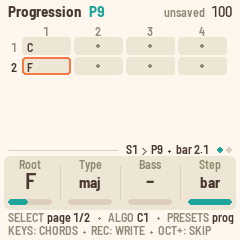
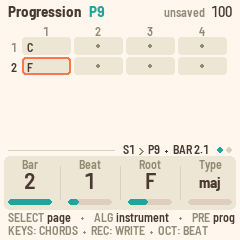
Manual: the Progression page's BAR, BEAT, ROOT, TYPE; STEP and CLEAR CHORD; hidden chords
How do I...: go to bar 1 beat 3 (BAR 1, BEAT 3), fix a chord (BAR / BEAT, ROOT / TYPE; BASS on page 2), delete a
chord (SEL, CLEAR CHORD). The Progression section: the knobs, OCT a beat, the tag, writing at the cursor by STEP,
SEL's list, chords hidden by a shorter length or fewer beats (back while on the pages, gone after, never saved).
The buttons, the panel table, the page-by-page table and the README's line; the figure re-shot from the cheatsheet
scenario.

Claude-Session: https://claude.ai/code/session_01KrDAEHZwidK2Hjis9LandD

diff --git a/MANUAL.md b/MANUAL.md
@@ -72,7 +72,9 @@ next thing.
 | play a progression | hold **HOME**, press white key *n* (P*n* goes round, from the next bar while playing) |
 | change the groove | hold **HOME**, press black key 2 (Groove A) or 3 (Groove B); 4 a fill, 1 the Intro, 5 the Ending |
 | write a progression | **HOME**, turn **KNOB 4** anticlockwise to "–" (free), **REC**, **PLAY**, a chord a bar, **REC** |
-| fix a chord | **ARP**, **OCT+** / **OCT−** to its beat, turn **KNOB 1** (root), **KNOB 2** (type) or **KNOB 3** (bass) |
+| go to bar 1 beat 3 | **ARP**, turn **KNOB 1** (Bar) to 1, **KNOB 2** (Beat) to 3 (**OCT−** / **OCT+**: a beat back / on) |
+| fix a chord | **ARP**, **KNOB 1** (Bar) and **KNOB 2** (Beat) to it, turn **KNOB 3** (Root) or **KNOB 4** (Type); its bass: **SELECT**, **KNOB 3** (Bass) |
+| delete a chord | **ARP**, **KNOB 1** / **KNOB 2** to it, **SEL** (the list opens on CLEAR CHORD), **SEL** |
 | lengthen a progression | **ARP**, **SELECT** (page 2), turn **KNOB 1** (Length) |
 | add a section to the song | **HOME**, **SELECT** (the Song page), press white key *n*: a section playing P*n* |
 | play from section 3 | on the Song page turn **KNOB 1** (Section) to 3, **SEL** (the list opens on PLAY FROM SECTION 3), **SEL** |
@@ -90,7 +92,7 @@ next thing.
 - **SEL**: this page as a list, with its actions; in a question, yes.
 - **HOME**: Home; **SELECT** then turns to the Song pages. Held: the shortcuts (keys, SELECT, PRESETS, REC, PLAY); in a
   question, no.
-- **ARP**: Progression (the chords), page 2 its length and name.
+- **ARP**: Progression (the chords: bar, beat, root, type), page 2 its length, beats, bass and name.
 - **SEQ**: Band (the groove's notes, instrument by instrument), page 2 the groove's length and name.
 - **EDIT**: Sound (the instrument's sound and range), page 2 its high key and channel.
 - **LFO**: Mixer, page 2 its tone.
@@ -98,7 +100,7 @@ next thing.
 - **ENV**: Style (which style each groove and extra plays).
 - **GLO**: Setup, page 2 the Panel.
 - **SAVE**: save; held + a white key: copy here.
-- **OCT− / OCT+**: the keys' octave (on Progression: the cursor).
+- **OCT− / OCT+**: the keys' octave (on Progression: the cursor, a beat back / on).
 - **SELECT**: a button's next page; in a list, up and down. **ALGORITHM**: the instrument (or melody). **PRESETS**: the
   next one of what the page shows. **KNOB 1–4**: the four values at the bottom of the screen.
 
@@ -145,7 +147,7 @@ The white keys are counted from the left, 1 to 16: progression P9 is white key 9
 | REC | Write what the keys play here: chords into the progression (Home, Progression; free on Home: a new progression), the selected instrument (Band, Sound), sections (Song) |
 | SEL | This page as a list, opened on its first action (LOAD PROGRESSION, PLAY FROM SECTION, ERASE INSTRUMENT…); SELECT up to its values and MORE |
 | HOME | Home; SELECT for the Song pages. Held: the shortcuts, on screen: + white key 1–16 a progression, + black key 1–5 a groove or an extra, + SELECT the tempo, + PRESETS the song, + REC undo, + PLAY redo |
-| ARP | Progression: its chords; page 2 its length, beats, name |
+| ARP | Progression: its chords; page 2 its length, beats, bass, name |
 | SEQ | Band (the groove's notes), page 2 Groove length |
 | EDIT | Sound, page 2 Sound 2 (high key, channel) |
 | LFO | Mixer, page 2 Mixer tone |
@@ -157,7 +159,7 @@ The white keys are counted from the left, 1 to 16: progression P9 is white key 9
 | ALGORITHM | The instrument, on any page: D1, D2, PC, BA, C1, C2, C3, C4, then the melodies M1, M2 |
 | PRESETS | Depends on the page (Home, Progression: the next progression). With HOME held: the song |
 | KNOB 1–4 | The four values at the bottom of the screen |
-| OCT− / OCT+ | Move the keys down or up an octave, −3 to +3. On Progression: the cursor |
+| OCT− / OCT+ | Move the keys down or up an octave, −3 to +3. On Progression: the cursor, a beat back / on |
 | Keys | Chords on Home and Progression, the selected instrument on Band and Sound, the sections on Song |
 | Any button held a second | A card says what it does on this page |
 
@@ -365,9 +367,22 @@ See [Writing a song](#writing-a-song) for the whole path.
 
 ![The Progression page](docs/img/manual/progression.png)
 
-- **Progression** (ARP): its bars, a chord a beat; KNOB 1–4 ROOT, TYPE, BASS, STEP at the cursor
-  (OCT− / OCT+ move it). Page 2: LENGTH, BEATS, NAME. It shows the progression playing, or the last one
-  picked; before you've picked one, the first empty one, so you never write over a factory one.
+- **Progression** (ARP): its bars, a chord a beat, and the cursor (the coral ring; the tag says where: "P9 ·
+  BAR 1.3"). KNOB 1–4: **BAR** and **BEAT** move the cursor (BAR keeps the beat; the grid scrolls to it; while
+  REC writes, one bar past the end, where a chord makes the progression longer), **ROOT** and **TYPE** change
+  the chord there (TYPE one below maj: "·", no chord there). **OCT−** / **OCT+** move the cursor a beat. Page 2:
+  **LENGTH**, **BEATS** (a bar's; each chord stays in its bar: a chord on bar 2 beat 1 is still on bar 2 beat 1),
+  **BASS** (the cursor's chord's), **NAME**. It shows the progression playing, or the last one picked; before
+  you've picked one, the first empty one, so you never write over a factory one.
+- **Writing at the cursor** (stopped, **REC**): each chord you play goes on the cursor, and the cursor moves on
+  a **STEP**: a bar, unless you pick a beat or half a bar in **SEL**'s list.
+- **SEL** on Progression: the knobs, the name's letters, then **CLEAR CHORD** (the list opens on it: the chord at
+  the cursor goes, "·", one undo step), **STEP** (beat, half, bar: ALGORITHM picks), **LOAD PROGRESSION**,
+  **CLEAR PROGRESSION**.
+- **Shorter, then longer again:** made shorter (LENGTH, or fewer BEATS), the chords that no longer fit are
+  hidden ("2 CHORDS HIDDEN"): not played, and back if you make it longer again while you're still on the
+  Progression pages. Leave them and they're gone (never saved). A chord written past the end grows the
+  progression into empty bars. Undo brings back a shortening, chords and all.
 - **Home's KNOB 4, PROG**: "–" (free: the band follows your chords) or P1–P16 (that progression plays; while
   playing, from the next bar). In a song it shows "Song"; turning it leaves the song.
 - **Song** (HOME, SELECT): the sections, top to bottom. A white key writes a section: on END it adds one, on a
@@ -783,8 +798,8 @@ on every page. SELECT turns a button's pages.
 | Song | HOME, SELECT | Section | Prog | Groove | Repeat | The next section |
 | Song 2 | HOME, SELECT ×2 | Section | Transpose | | | The next section |
 | Song 3 | HOME, SELECT ×3 | Intro | Ending | At end | Song | The next section |
-| Progression | ARP | Root | Type | Bass | Step | The next progression |
-| Progression 2 | ARP, SELECT | Length | Beats | Name | | The next progression |
+| Progression | ARP | Bar | Beat | Root | Type | The next progression |
+| Progression 2 | ARP, SELECT | Length | Beats | Bass | Name | The next progression |
 | Band | SEQ | Grid | | | Mute | What the groove plays |
 | Groove length | SEQ, SELECT | Bars | Beats | Letter | Character | What the groove plays |
 | Sound | EDIT | Program | Type | Low (a melody: none) | High (a melody: Velocity) | Program family |

diff --git a/README.md b/README.md
@@ -47,7 +47,7 @@ then follow Polly's 16 styles on the Style knob, marked "QY".
 | SEL | the page as a list: its values, MORE, and actions (LOAD PROGRESSION, CLEAR PROGRESSION, PLAY FROM SECTION, INSERT SECTION, BACK TO STYLE…) |
 | HOME held | the shortcuts on screen: + white key 1-16 a progression; + black key 1-5 Intro, Groove A, Groove B, Fill, Ending (from the next bar); + SELECT the tempo; + PRESETS the song; + REC undo, + PLAY redo |
 | HOME | Home: KNOB 1 style, 2 tempo, 3 transpose, 4 prog ("–": free, the band follows your chords); SELECT: Song (sections: prog, groove, repeat, mutes, transpose; intro, ending, at end, song) |
-| ARP | Progression: its chords, a chord a beat (root, type, bass, step); page 2 length, beats, name |
+| ARP | Progression: its chords, a chord a beat (bar, beat, root, type); page 2 length, beats, bass, name |
 | SEQ | Band (the groove's 8 instruments; KNOB 1 the grid, KNOB 4 mute: the song's, every groove); page 2 Groove length (its length, beats, name) |
 | EDIT | Sound: program, type, range; page 2 high key, channel |
 | LFO | Mixer (volume, pan, sends); page 2 tone (bright, reso) |
